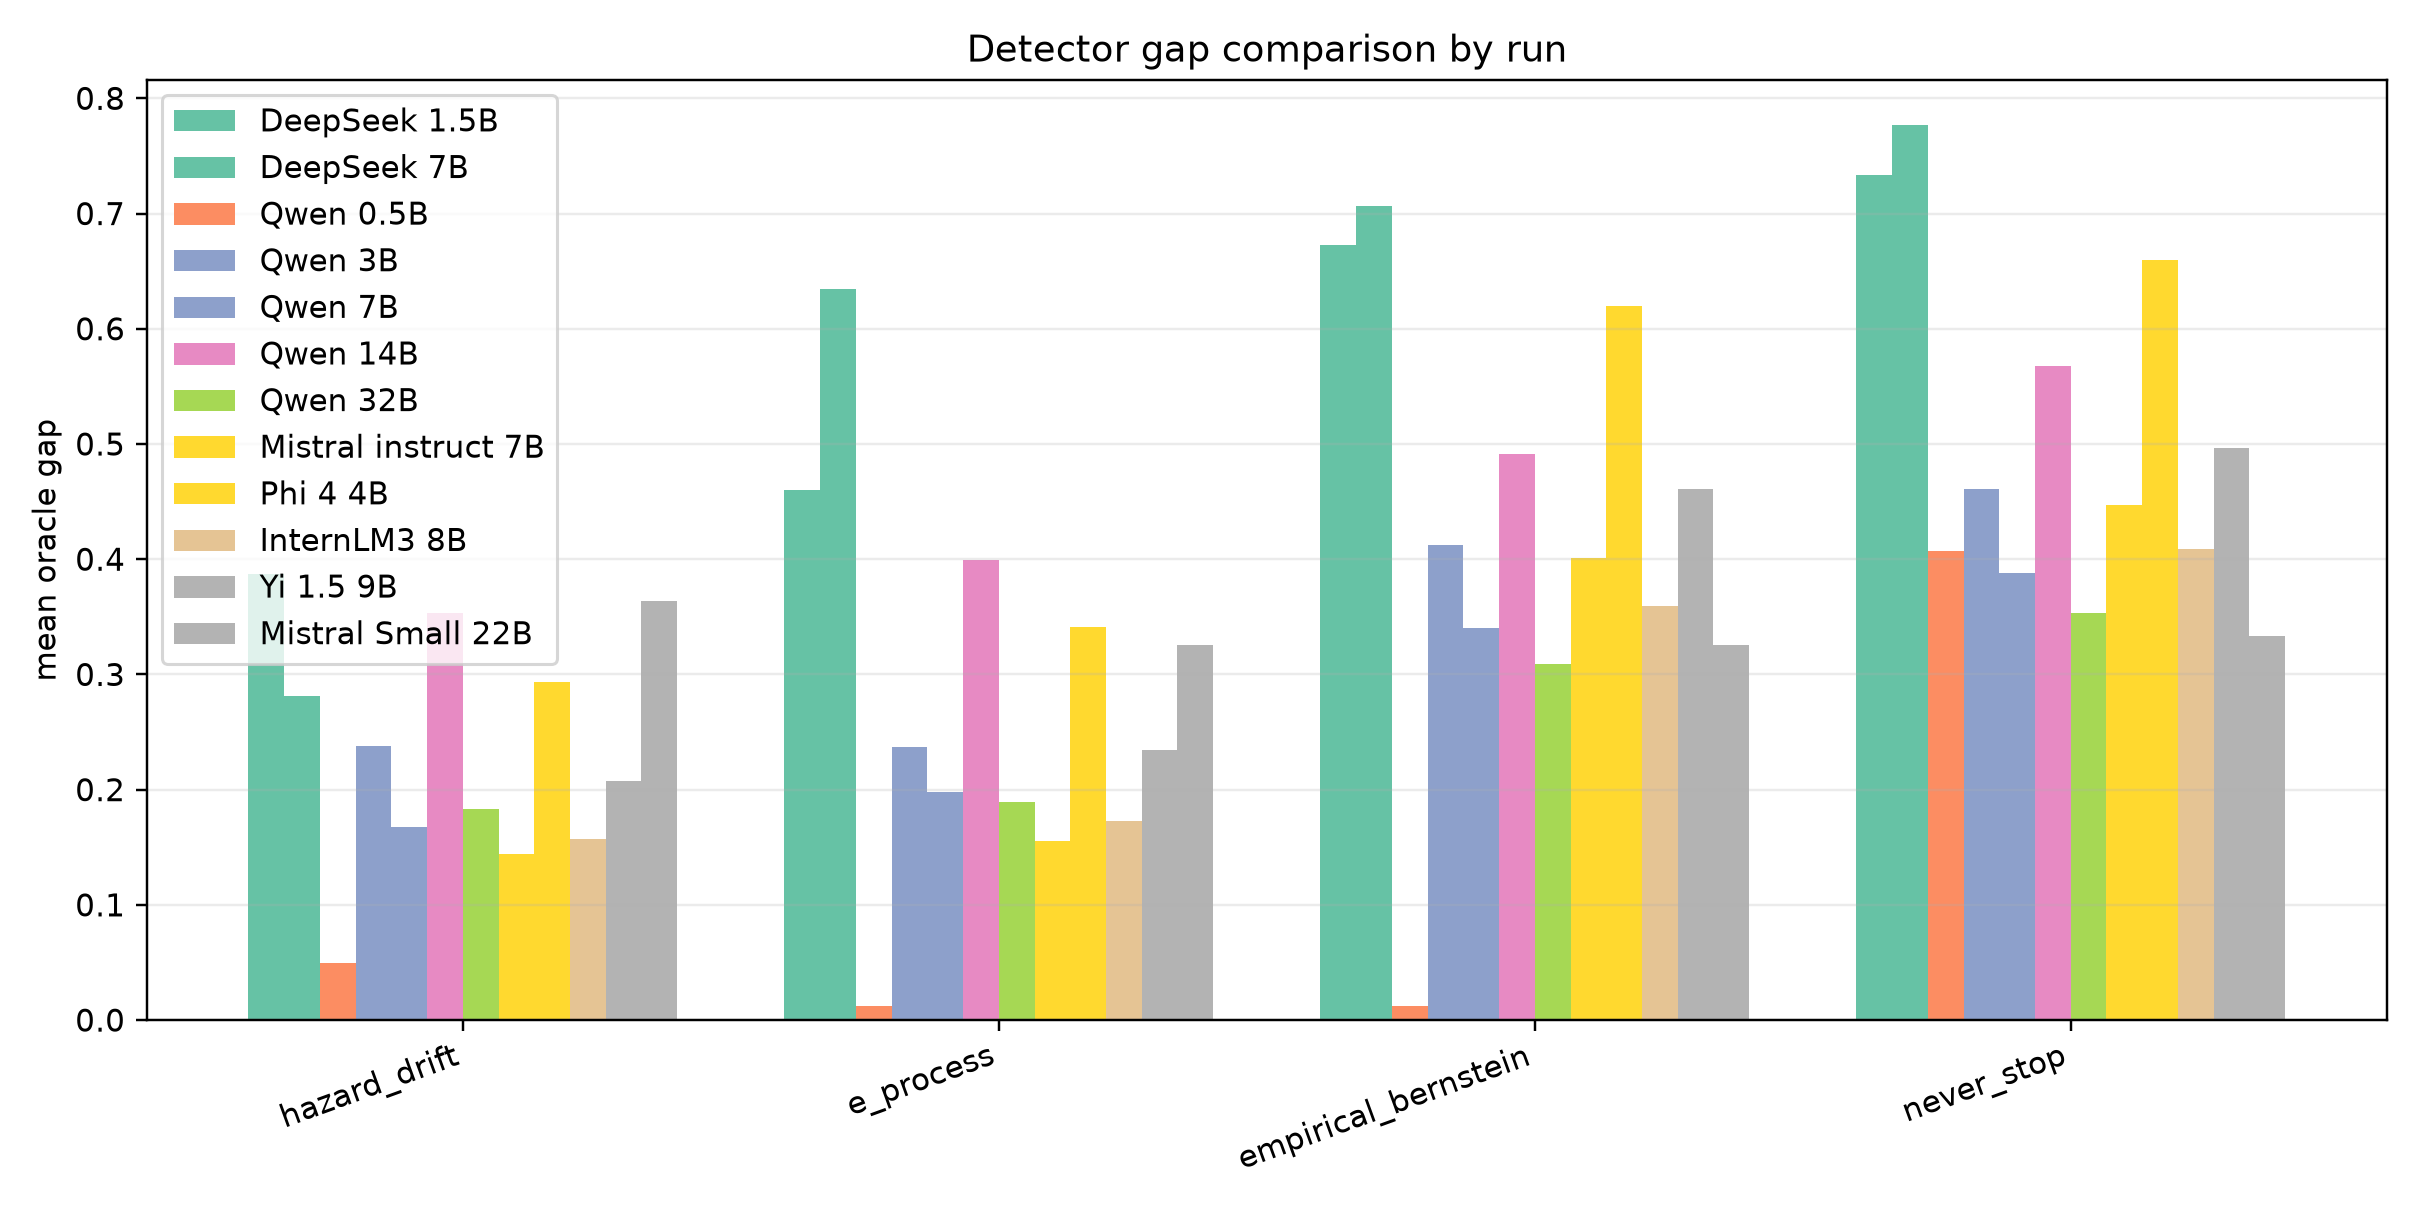
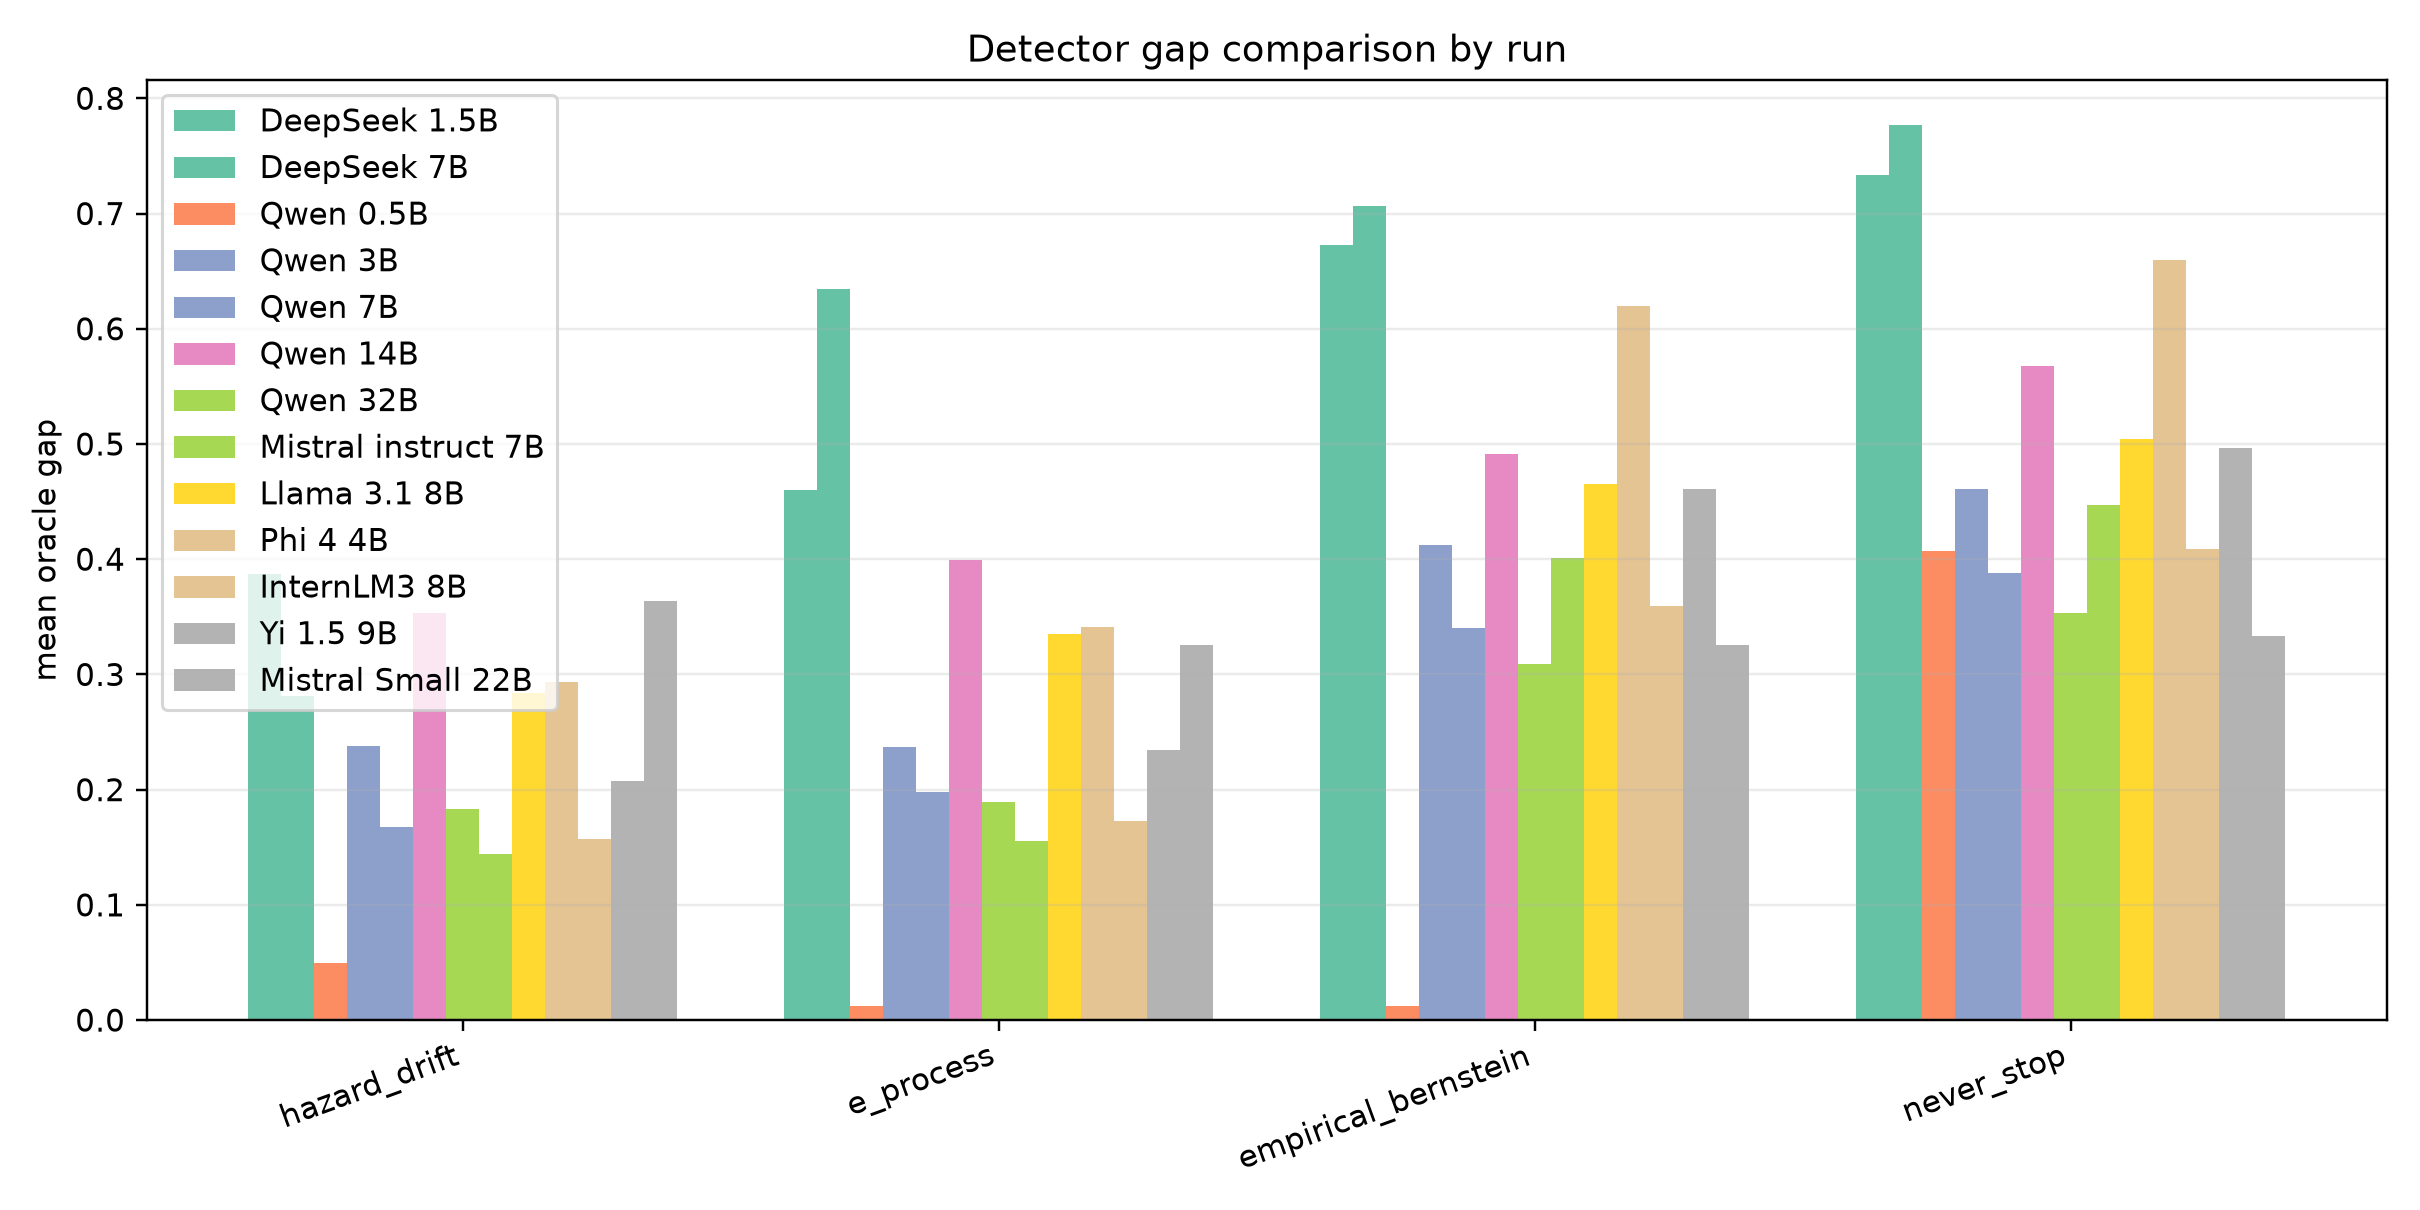
matrix aggregate: gsm8k

diff --git a/research/outputs/experiment_matrix/_aggregate/gsm8k/CROSS_FAMILY_REPORT.md b/research/outputs/experiment_matrix/_aggregate/gsm8k/CROSS_FAMILY_REPORT.md
@@ -1,9 +1,9 @@
 # Cross-Family Report
 
 ## Executive Summary
-A clearly late corrected boundary replicates in 4 capable run(s) across 2 family/families: Qwen 7B (step 5); Qwen 14B (step 5); Qwen 32B (step 5); Mistral Small 22B (step 6). An additional 4 run(s) across 4 family/families (InternLM3, Mistral instruct, Qwen2.5 instruct, Yi 1.5) add weaker late-boundary support: Qwen 3B (step 4); Mistral instruct 7B (step 3); InternLM3 8B (step 4); Yi 1.5 9B (step 3). Cross-family support for a late overthinking boundary is now strong.
+A clearly late corrected boundary replicates in 5 capable run(s) across 3 family/families: Qwen 7B (step 5); Qwen 14B (step 5); Qwen 32B (step 5); Llama 3.1 8B (step 5); Mistral Small 22B (step 6). An additional 4 run(s) across 4 family/families (InternLM3, Mistral instruct, Qwen2.5 instruct, Yi 1.5) add weaker late-boundary support: Qwen 3B (step 4); Mistral instruct 7B (step 3); InternLM3 8B (step 4); Yi 1.5 9B (step 3). Cross-family support for a late overthinking boundary is now strong.
 
-Task IDs align across all 12 runs under the shared GSM8K train split and shuffle seed 17 protocol.
+Task IDs align across all 13 runs under the shared GSM8K train split and shuffle seed 17 protocol.
 
 ## Run Summary
 | Run | Family | Params | Backend | Quant | Step-1 acc | Peak acc | Peak step | Corrected boundary | Repair | Corruption | Hazard gap | E-process gap | Never-stop gap | Probe Brier | Probe AUC | Assessment |
@@ -16,6 +16,7 @@ Task IDs align across all 12 runs under the shared GSM8K train split and shuffle
 | Qwen 14B | Qwen2.5 instruct | 14B | transformers+torch(cuda) | none | 0.0300 | 0.4733 | 9 | 5 | 0.1427 | 0.2577 | 0.3535 | 0.3990 | 0.5676 | 0.1026 | 0.9122 | Late-boundary replication |
 | Qwen 32B | Qwen2.5 instruct | 32B | transformers+torch(cuda) | none | 0.0413 | 0.8787 | 10 | 5 | 0.2188 | 0.0611 | 0.1835 | 0.1889 | 0.3529 | 0.1500 | 0.8346 | Late-boundary replication |
 | Mistral instruct 7B | Mistral instruct | 7B | transformers+torch(cuda) | none | 0.3040 | 0.3207 | 10 | 3 | 0.0526 | 0.1339 | 0.1440 | 0.1550 | 0.4470 | 0.2316 | 0.6504 | Weakened late-boundary support |
+| Llama 3.1 8B | Llama 3.1 | 8B | transformers+torch(cuda) | none | 0.0113 | 0.4747 | 10 | 5 | 0.1162 | 0.1817 | 0.2841 | 0.3349 | 0.5043 | 0.2040 | 0.7435 | Late-boundary replication |
 | Phi 4 4B | Phi 4 | 4B | transformers+torch(cuda) | none | 0.3333 | 0.3413 | 10 | 2 | 0.1589 | 0.3427 | 0.2935 | 0.3407 | 0.6594 | 0.2314 | 0.6521 | No late-boundary replication |
 | InternLM3 8B | InternLM3 | 8B | transformers+torch(cuda) | none | 0.2707 | 0.6807 | 9 | 4 | 0.1073 | 0.0243 | 0.1569 | 0.1725 | 0.4092 | 0.2170 | 0.6942 | Weakened late-boundary support |
 | Yi 1.5 9B | Yi 1.5 | 9B | transformers+torch(cuda) | none | 0.0953 | 0.3807 | 10 | 3 | 0.1001 | 0.1550 | 0.2077 | 0.2341 | 0.4968 | 0.2215 | 0.6923 | Weakened late-boundary support |
@@ -32,6 +33,7 @@ Task IDs align across all 12 runs under the shared GSM8K train split and shuffle
 | Qwen 14B | 5 | 5 | 6 | 5 | no |
 | Qwen 32B | 5 | 5 | 5 | 5 | no |
 | Mistral instruct 7B | 3 | 3 | 4 | 3 | no |
+| Llama 3.1 8B | 5 | 5 | 4 | 5 | no |
 | Phi 4 4B | 2 | 2 | 3 | 2 | no |
 | InternLM3 8B | 4 | 4 | 4 | 4 | no |
 | Yi 1.5 9B | 3 | 3 | 4 | 3 | no |
@@ -64,6 +66,9 @@ Task IDs align across all 12 runs under the shared GSM8K train split and shuffle
 | Mistral instruct 7B | oracle | 1 | 0.0000 | 0.000 |
 | Mistral instruct 7B | first_answer | 2 | 0.0137 | 0.000 |
 | Mistral instruct 7B | verifier_first_correct | 3 | 0.1423 | 0.558 |
+| Llama 3.1 8B | oracle | 1 | 0.0000 | 0.000 |
+| Llama 3.1 8B | verifier_first_correct | 2 | 0.1403 | 0.360 |
+| Llama 3.1 8B | answer_stability | 3 | 0.2811 | 0.862 |
 | Phi 4 4B | oracle | 1 | 0.0000 | 0.000 |
 | Phi 4 4B | verifier_first_correct | 2 | 0.0046 | 0.279 |
 | Phi 4 4B | first_answer | 3 | 0.2174 | 0.000 |
@@ -88,6 +93,7 @@ Task IDs align across all 12 runs under the shared GSM8K train split and shuffle
 | Qwen 14B | hidden-state L2 drift (hidden_l2_shift, coeff=1.755) | answer revision flag (answer_changed, coeff=0.942) |
 | Qwen 32B | hidden-state L2 drift (hidden_l2_shift, coeff=1.152) | hidden-state L2 drift (hidden_l2_shift, coeff=1.537) |
 | Mistral instruct 7B | answer revision flag (answer_changed, coeff=-0.554) | hidden-state L2 drift (hidden_l2_shift, coeff=0.908) |
+| Llama 3.1 8B | hidden-state L2 drift (hidden_l2_shift, coeff=1.221) | hidden-state L2 drift (hidden_l2_shift, coeff=1.010) |
 | Phi 4 4B | answer revision flag (answer_changed, coeff=-0.565) | answer revision flag (answer_changed, coeff=0.355) |
 | InternLM3 8B | hidden-state L2 drift (hidden_l2_shift, coeff=0.395) | hidden-state L2 drift (hidden_l2_shift, coeff=1.309) |
 | Yi 1.5 9B | self-reported confidence (confidence, coeff=0.994) | token entropy (entropy_mean, coeff=0.718) |
